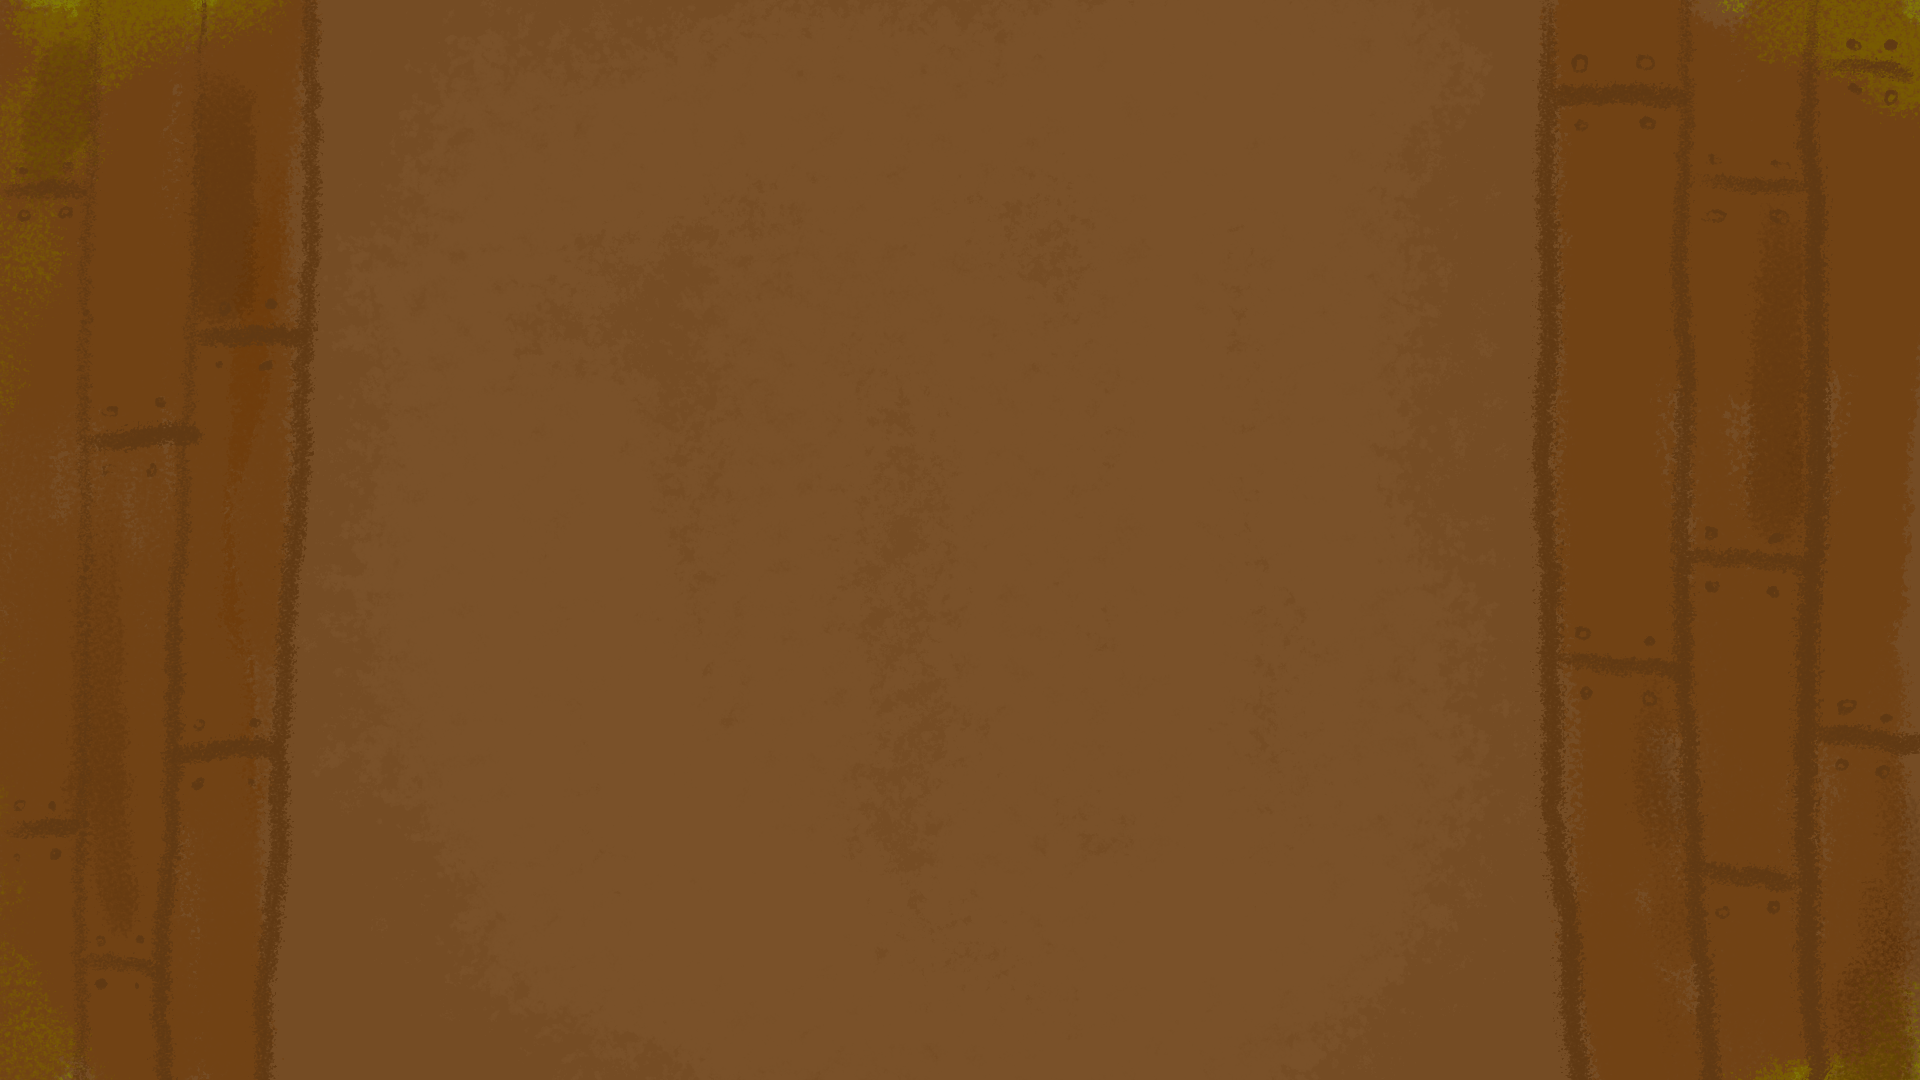
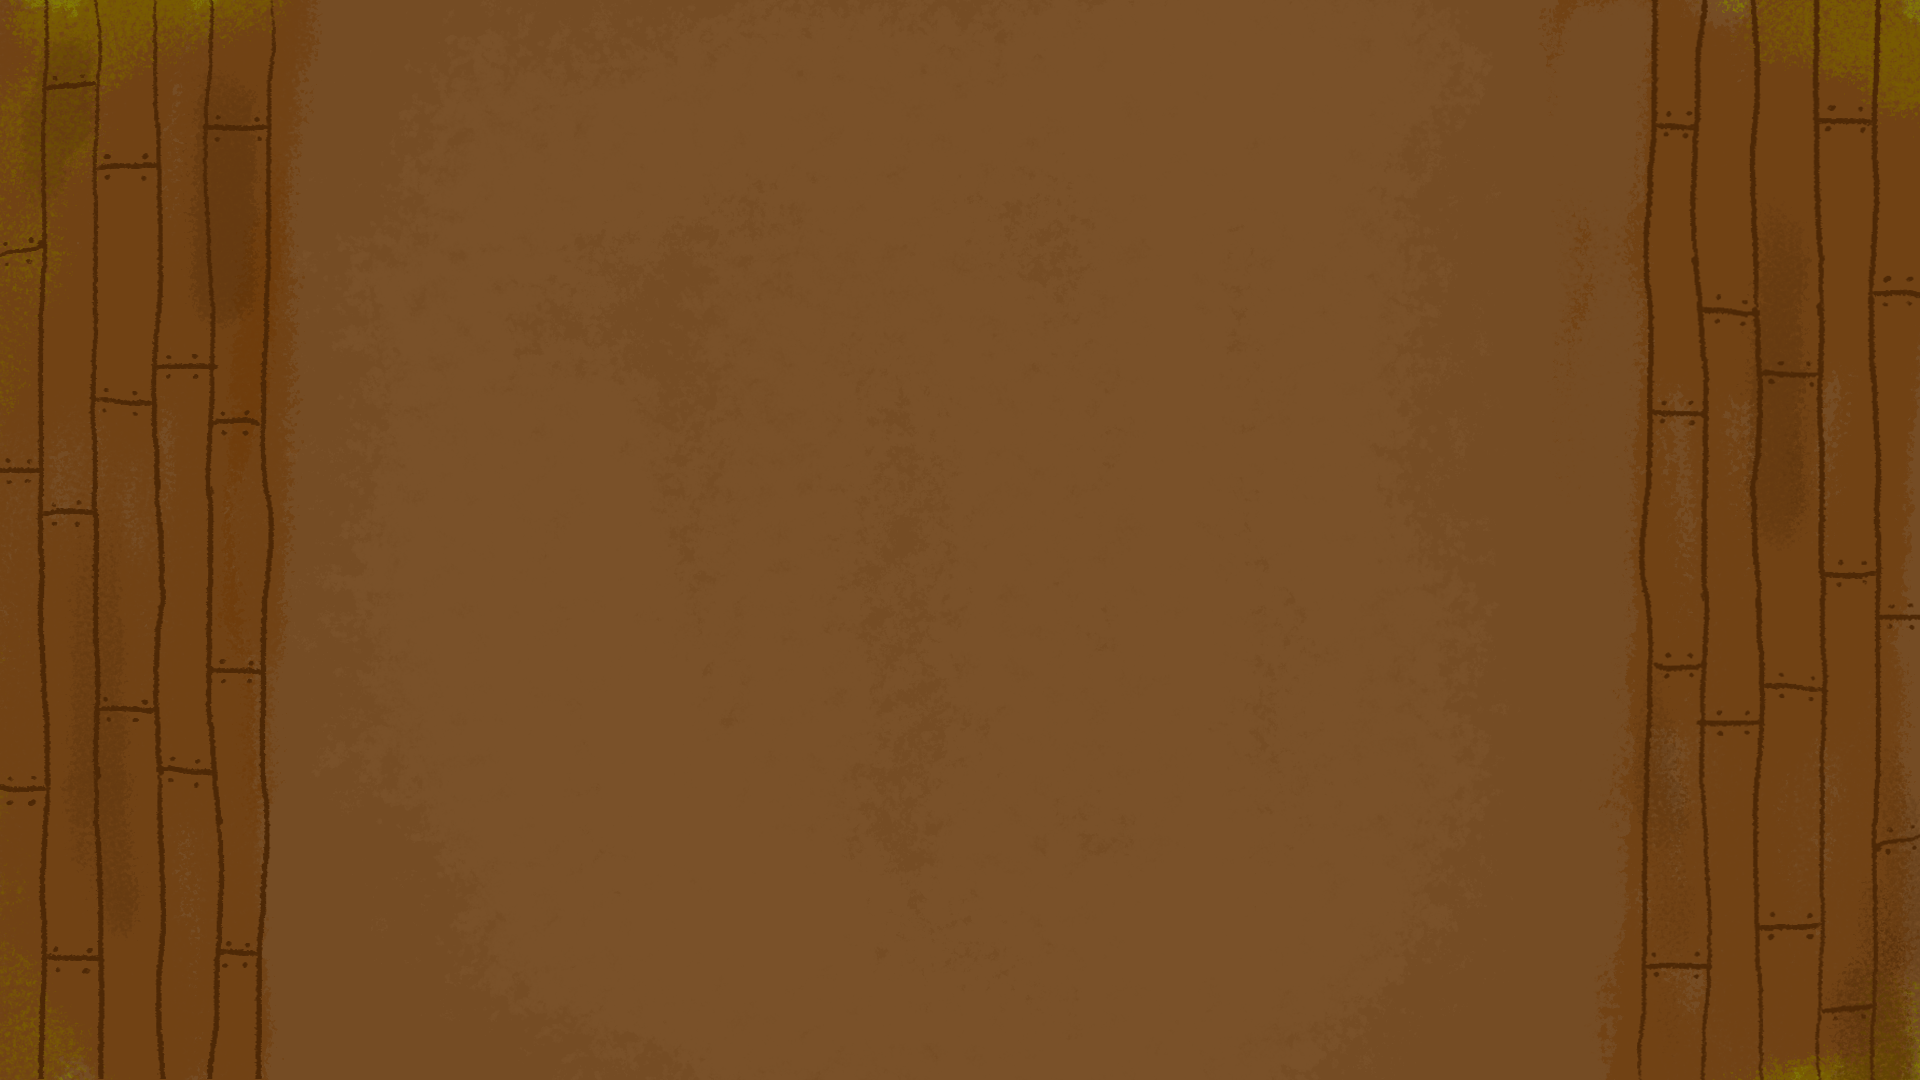
house done

diff --git a/display/house.html b/display/house.html
@@ -5,30 +5,43 @@
     <meta name="viewport" content="width=device-width, initial-scale=1.0">
     <meta http-equiv="X-UA-Compatible" content="ie=edge">
     <link rel="stylesheet" href="../main.css">
+    <link rel="stylesheet" href="../style/house.css">
     <link href="https://fonts.googleapis.com/css?family=Sacramento" rel="stylesheet">
     <title>Your House</title>
 </head>
-<body>
-    <head>
-        <h1>Your House</h1>
-    </head>
-    <main>
+<body scroll="no" style="overflow: hidden">
+        <section id="creature-hud">
+            <p>Name: <span id="creature-name"></span></p>
+            <p><img src="/assets/heart.png" alt="happiness" id="heart-pic">: <span id="creature-happy"></span></p>
+            <p><img src="/assets/money.png" alt="money" id="money-pic">: $<span id="creature-money"></span></p>
+            <a href="map.html" >Back to Map</a>
+
+        </section>
         <main>
-            <section id="creature-hud">
-                <p>Name: <span id="creature-name"></span></p>
-                <p><img src="/assets/heart.png" alt="happiness" id="heart-pic">: <span id="creature-happy"></span></p>
-                <p><img src="/assets/money.png" alt="money" id="money-pic">: $<span id="creature-money"></span></p>
-            </section>
+    <div id="screen">
+
+        <div id="row-one">
+        </div>
+
+        <div id="row-two">
         <section id="hat-rack">
         </section>
         <section>
-        <img src="" id="creature-image" width="200px" alt="your dream friend">
-        <img src="" id="your-hat" alt="your dream friend's hat">
-        </section>
+        <div id="creature">
+                <section>
+                <div id="creature-with-hat">
+                    <div id="hat">
+                        <img src="" id="your-hat">
+                    </div>
+                     <div id="creature">
+                         <img src="" id="creature-image" width="200px" alt="your creature">
+                    </div>
+                </div>
+                </div>
+        </div>
+    
+    </div>    
     </main>
-    <footer>
-        <a href="map.html">Back to the map</a>
-    </footer>
     <script type="module" src="../src/house.js"></script>
 </body>
 </html>

diff --git a/style/house.css b/style/house.css
@@ -1,0 +1,50 @@
+html {
+    background: url(/assets/house-background.png);
+    -webkit-background-size: cover;
+    -moz-background-size: cover;
+    -o-background-size: cover;
+    background-size: cover;
+    background-repeat: no-repeat;
+    background-attachment: fixed;
+}
+
+
+#screen{
+    display: flex;
+    flex-direction: column;
+    
+}
+
+#row-one {
+    height: 42vh;
+}
+
+#row-two {
+    height: 52vh;
+    display: flex;
+    flex-direction: column;
+    align-items: flex-end;
+}
+
+#hat-rack {
+    display:flex;
+    flex-direction: row;
+    position: relative;
+    right: 11vw;
+    bottom: 12vh;
+}
+
+#your-hat{
+    width: 9vw;
+    position: relative;
+    top: 6vh;
+    left: 2.5vw;
+
+}
+
+#creature-with-hat{
+    position: absolute;
+    bottom: 4vh;
+    right: 10vw;
+}
+    

diff --git a/display/about.html b/display/about.html
@@ -30,7 +30,8 @@
         <section>
             <p>
                 <img src="../assets/sasquatch-happy.png" class="teammate">
-
+                Sean Nelson recently transitioned from the Journalism industry and is now an Apprentice Developer in Portland, Oregon. Sean loves spending time outdoors, 
+                being near his puppy, playing and listening to Bluegrass, and generally being surrounded by music and friends.
             </p>      
         </section>
         <section>

diff --git a/display/store.html b/display/store.html
@@ -14,6 +14,7 @@
         <p>Name: <span id="creature-name"></span></p>
         <p><img src="/assets/heart.png" alt="happiness" id="heart-pic">: <span id="creature-happy"></span></p>
         <p><img src="/assets/money.png" alt="money" id="money-pic">: $<span id="creature-money"></span></p>
+        <a href="map.html" >Back to Map</a>
     </section>
     <main>
 <div id="screen">

diff --git a/style/store.css b/style/store.css
@@ -65,7 +65,7 @@ html {
 
 #creature-with-hat{
     position: absolute;
-    bottom: 2vh;
+    bottom: 4vh;
     right: 20vh;
 }
     
